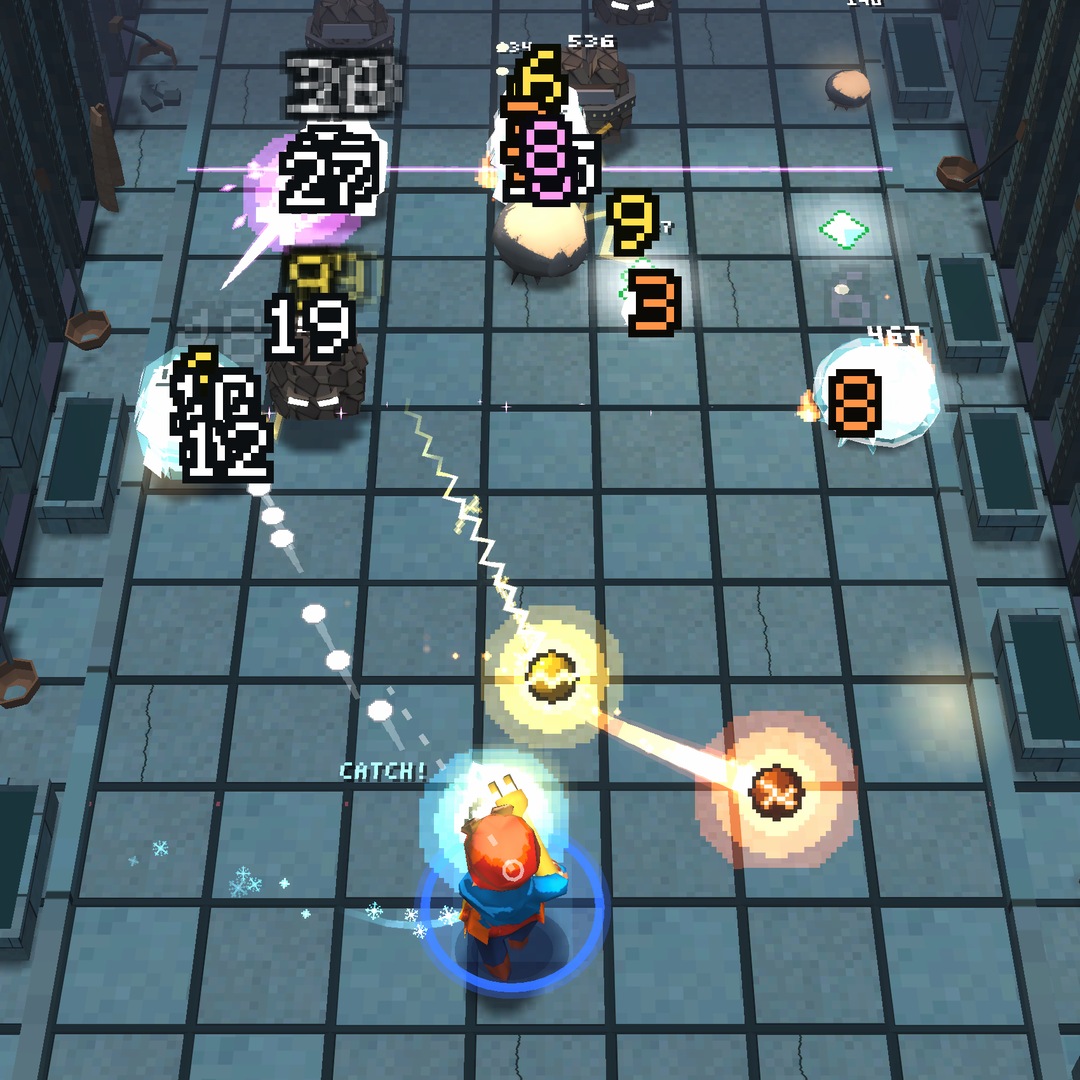
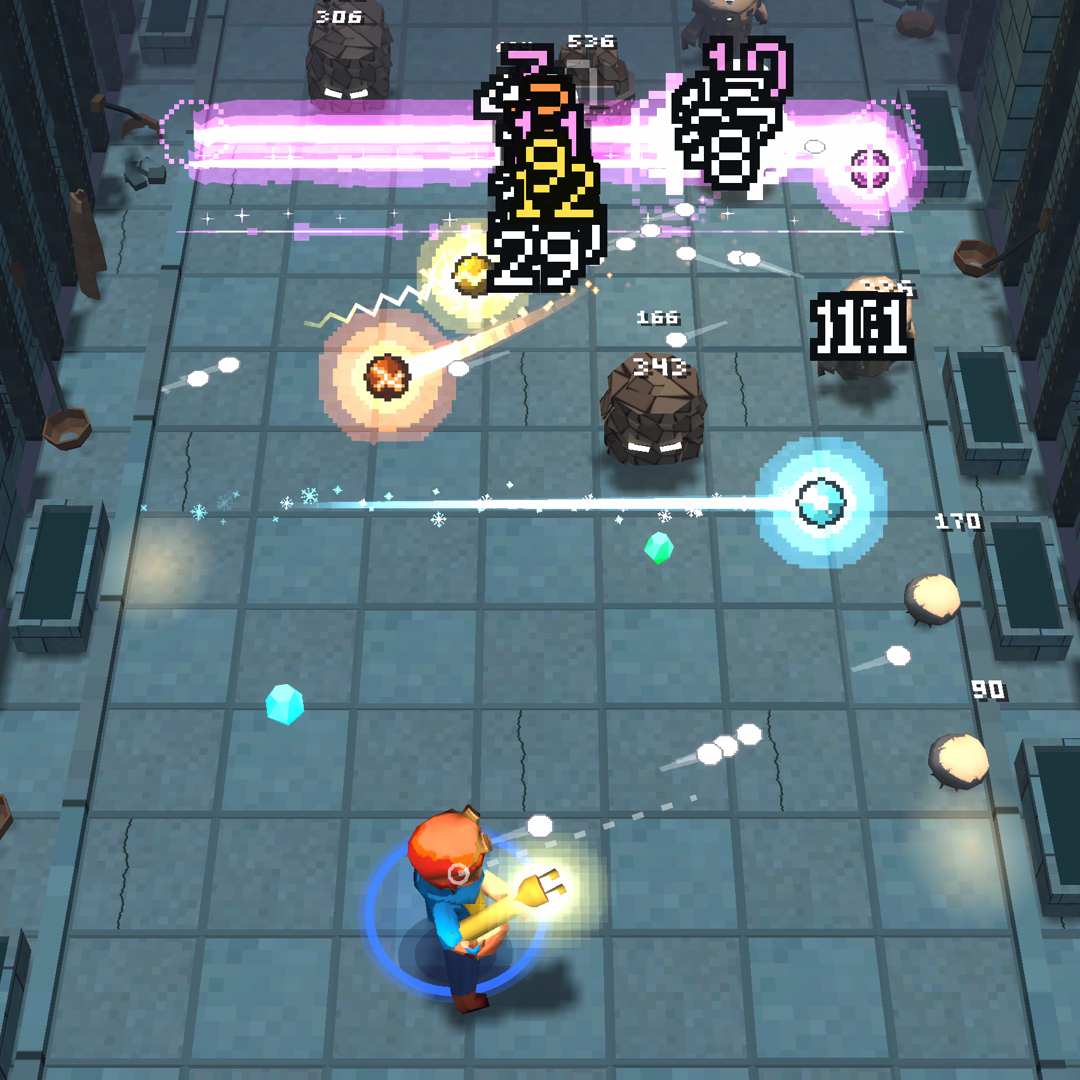
pit-unity: README shots retaken with the 3D XP gems on the floor
PitCapture readme: fight and close need two or more gems lying on the floor (more score up to four), and no shot
except the boss is taken under a BOARD CLEAR banner. hero_fight is -pitPick 1 so it is not the ray shot's moment;
boss is -pitPick 3 as before; hero_close is the 2160x3840 close frame cropped 1700x1700+230+1150 to 1080.

diff --git a/pit-unity/Assets/Scripts/Editor/PitCapture.Readme.cs b/pit-unity/Assets/Scripts/Editor/PitCapture.Readme.cs
@@ -1,7 +1,7 @@
 // -pitScreen readme -pitKind fight|boss|ray|levelup|close [-pitExposure 0.9] [-pitBoss 0] [-pitFrom 25 -pitTo 40] [-pitLead 30] [-pitLevels 12] [-pitFreeze 60] [-pitPick 0]
 // Store / README shots. The bot plays a fixed run (seed 1234) with Ember, Rime, Spark and Ray at level 3 in the four
 // slots, +Lead (more baby balls, so the board is busy) and the hero in god mode. Pass 1 plays the run in the core alone and scores every frame of the shot window
-// (balls in flight, a launch in the last 0.1 s so the muzzle flash shows, burning and frozen foes, recent chains and row
+// (balls in flight, a launch in the last 0.1 s so the muzzle flash shows, burning and frozen foes, XP gems on the floor, recent chains and row
 // beams); pass 2 replays the same run through the views up to the best frame. The exposure lift is a capture-only
 // volume; nothing in the game changes.
 using System;
@@ -83,6 +83,7 @@ namespace Pit.EditorTools
                     if (r.Has(e, "burn")) burning++;
                     if (r.Has(e, "freeze")) frozen++;
                 }
+                if (Kind != "boss" && r.Banner != null && r.Banner.T > 0) return -1;   // no BOARD CLEAR banner over the shot
                 bool flash = Frame - LastLaunch <= 5;
                 if (Kind == "ray")
                 {
@@ -92,6 +93,11 @@ namespace Pit.EditorTools
                 }
                 if (field < (Kind == "boss" ? 10 : 14)) return -1;
                 float s = Math.Min(field, 25) * 3 + Math.Min(burning, 5) * 4 + Math.Min(frozen, 4) * 10 + Math.Min(foes, 16) * 2;
+                // a few XP gems lying on the floor show the pickups (fight and close want at least two)
+                int gems = 0;
+                foreach (var d in r.Drops) if (d.Kind == DropKind.Gem && !d.Flying && !d.Got) gems++;
+                if ((Kind == "close" || Kind == "fight") && gems < 2) return -1;
+                s += Math.Min(gems, 4) * 6;
                 if (Frame - LastArc <= 20) s += 8;
                 if (Frame - LastRow <= 25) s += 8;
                 if (flash) s += 20; else if (Kind == "close" || Kind == "fight") return -1;
